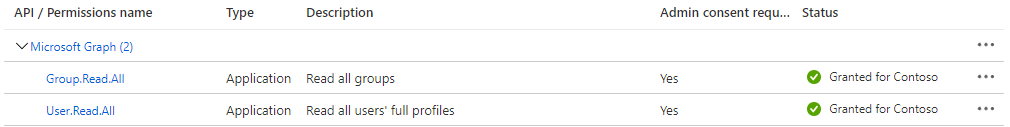
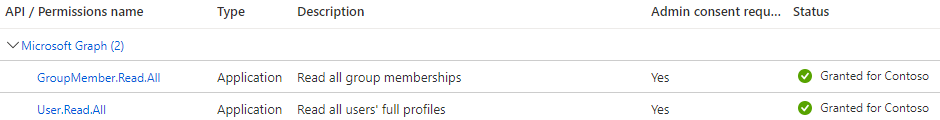
update doc to use permission GroupMember.Read.All

diff --git a/content/en/docs/usage/register-application/index.md b/content/en/docs/usage/register-application/index.md
@@ -20,7 +20,7 @@ If you are not a global administrator, you need to have permissions to [create a
 
 ## Permissions required
 
-AzureCP requires permissions `Group.Read.All` and `User.Read.All` of type application (not delegated):
+AzureCP requires permissions `GroupMember.Read.All` and `User.Read.All` of type application (not delegated):
 
 ![Image](aad-azurecp-permissions.png "At the end of the configuration, the permissions should be exactly like this.")
 
@@ -41,21 +41,21 @@ You can register the application using either:
 1. Click on "Register"
 1. Click on "API permissions"
     * Remove the default permission.
-    * Add a permission > Select "Microsoft Graph" > "Application permissions". Select `Group.Read.All` and `User.Read.All`.
+    * Add a permission > Select "Microsoft Graph" > "Application permissions". Select `GroupMember.Read.All` and `User.Read.All`.
     * Click on "Grant admin consent for TenantName" > Yes
 1. Click on "Certificates & secrets": AzureCP supports both a certificate and a secret, choose either option depending on your needs.
 
 ### Create the app registration using m365 cli
 
 [M365 cli](https://pnp.github.io/cli-microsoft365/) is very simple: It takes only 1 command to create the application, create a secret and set the permissions.  
-However, with the current version (v3.10.0 at the time of this writing), the admin consent needs to be granted manually.
+However, with the current version (v5.1.0 at the time of this writing), the admin consent needs to be granted manually.
 
 1. Create the application:
 
     ```bash
     m365 login
     # m365 aad app add will return all the information that AzureCP needs to connect.
-    m365 aad app add --name "AzureCP" --withSecret --apisApplication 'https://graph.microsoft.com/Group.Read.All,https://graph.microsoft.com/User.Read.All'
+    m365 aad app add --name "AzureCP" --withSecret --apisApplication 'https://graph.microsoft.com/User.Read.All,https://graph.microsoft.com/GroupMember.Read.All'
     ```
 
 1. Grant the admin consent to the app registration through the admin portal (see the steps in the creation through the Azure portal above)
@@ -85,25 +85,25 @@ echo "Application '$appName' was created with client id '$appId', and its servic
 appSecret=$(az ad app credential reset --id $appId -o tsv | cut -f3)
 
 # Retrieve the id of the permissions to grant
-groupReadAllId=$(az ad sp show --id 00000003-0000-0000-c000-000000000000 --query "appRoles[?value=='Group.Read.All'].id" --output tsv)
-userReadAllId=$(az ad sp show --id 00000003-0000-0000-c000-000000000000 --query "appRoles[?value=='User.Read.All'].id" --output tsv)
+userPermId=$(az ad sp show --id 00000003-0000-0000-c000-000000000000 --query "appRoles[?value=='User.Read.All'].id" --output tsv)
+groupPermId=$(az ad sp show --id 00000003-0000-0000-c000-000000000000 --query "appRoles[?value=='GroupMember.Read.All'].id" --output tsv)
 msGraphResourceId=$(az ad sp show --id 00000003-0000-0000-c000-000000000000 --query "objectId" --output tsv)
 
 # Add the permissions required to the definition of the application (optional as it is just a declaration of the permissions needed)
 az ad app update --id $appId --required-resource-accesses "[{
         \"resourceAppId\": \"00000003-0000-0000-c000-000000000000\",
         \"resourceAccess\": [{
-                        \"id\": \"$userReadAllId\",
+                        \"id\": \"$userPermId\",
                         \"type\": \"Role\"
                 },
                 {
-                        \"id\": \"$groupReadAllId\",
+                        \"id\": \"$groupPermId\",
                         \"type\": \"Role\"
                 }
         ]
         }]"
 
-echo "Grant permissions Group.Read.All (id '$groupReadAllId') and User.Read.All (id '$userReadAllId') on resource Microsoft Graph with id '$msGraphResourceId' to service principal '$spObjectId'..."
+echo "Grant admin consent to Microsoft Graph permissions User.Read.All (id '$userPermId') and GroupMember.Read.All (id '$groupPermId') for service principal '$spObjectId'..."
 # Wait before granting the permissions to avoid error "Request_ResourceNotFound" on the service principal just created
 sleep 20
 # Grant permissions to the service principal of the application
@@ -112,7 +112,7 @@ az rest --method POST \
         --body "{
         \"principalId\": \"$spObjectId\",
         \"resourceId\": \"$msGraphResourceId\",
-        \"appRoleId\": \"$userReadAllId\"
+        \"appRoleId\": \"$userPermId\"
         }"
 
 az rest --method POST \
@@ -120,7 +120,7 @@ az rest --method POST \
         --body "{
         \"principalId\": \"$spObjectId\",
         \"resourceId\": \"$msGraphResourceId\",
-        \"appRoleId\": \"$groupReadAllId\"
+        \"appRoleId\": \"$groupPermId\"
         }"
 
 echo "Application $appName was created with client id '$appId' and client secret '$appSecret'"

diff --git a/content/en/docs/overview/introduction/index.md b/content/en/docs/overview/introduction/index.md
@@ -29,8 +29,7 @@ AzureCP is fully compatible with all the supported versions of SharePoint Server
 - AzureCP 18+ requires at least [.NET Framework 4.7.2](https://dotnet.microsoft.com/en-us/download/dotnet-framework/net472) on all SharePoint servers.
 - AzureCP 17 requires at least [.NET Framework 4.6.1](https://dotnet.microsoft.com/en-us/download/dotnet-framework/net461) on all SharePoint servers.
 - **All** SharePoint servers need to be able to connect to Internet. [Read this]({{< ref "/docs/usage/configuration#configure-proxy-for-internet-access" >}}) if you need to configure a proxy.
-- Azure AD administrator needs to [create an app registration]({{< ref "/docs/usage/register-application" >}}) for AzureCP.
-- AzureCP requires permissions Group.Read.All and User.Read.All in Azure AD.
+- An [application registered in Azure AD]({{< ref "/docs/usage/register-application" >}}) with Microsoft Graph permissions `GroupMember.Read.All` and `User.Read.All` granted.
 
 ## Features
 
